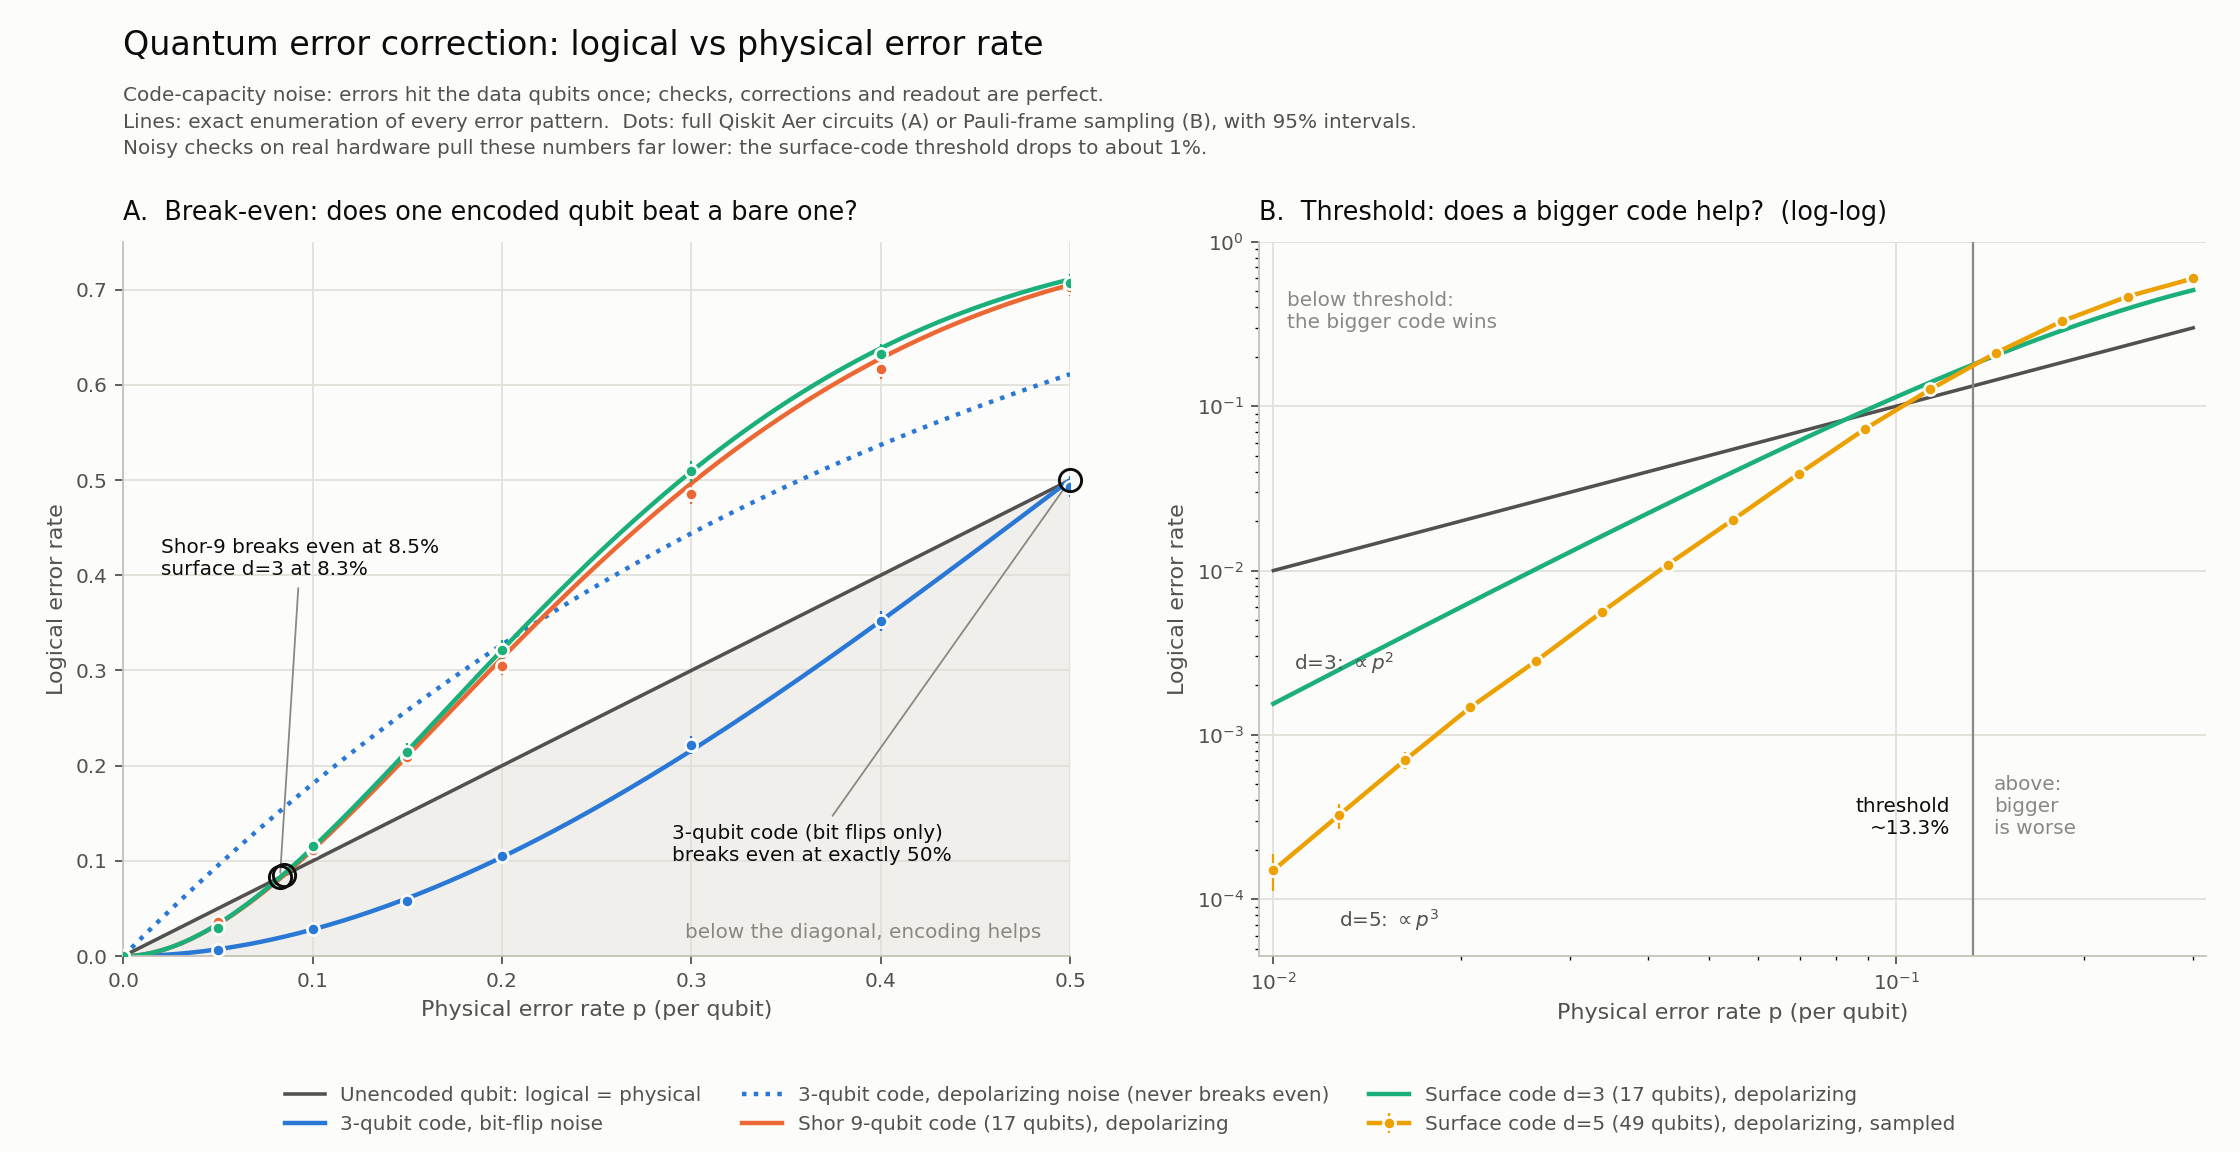
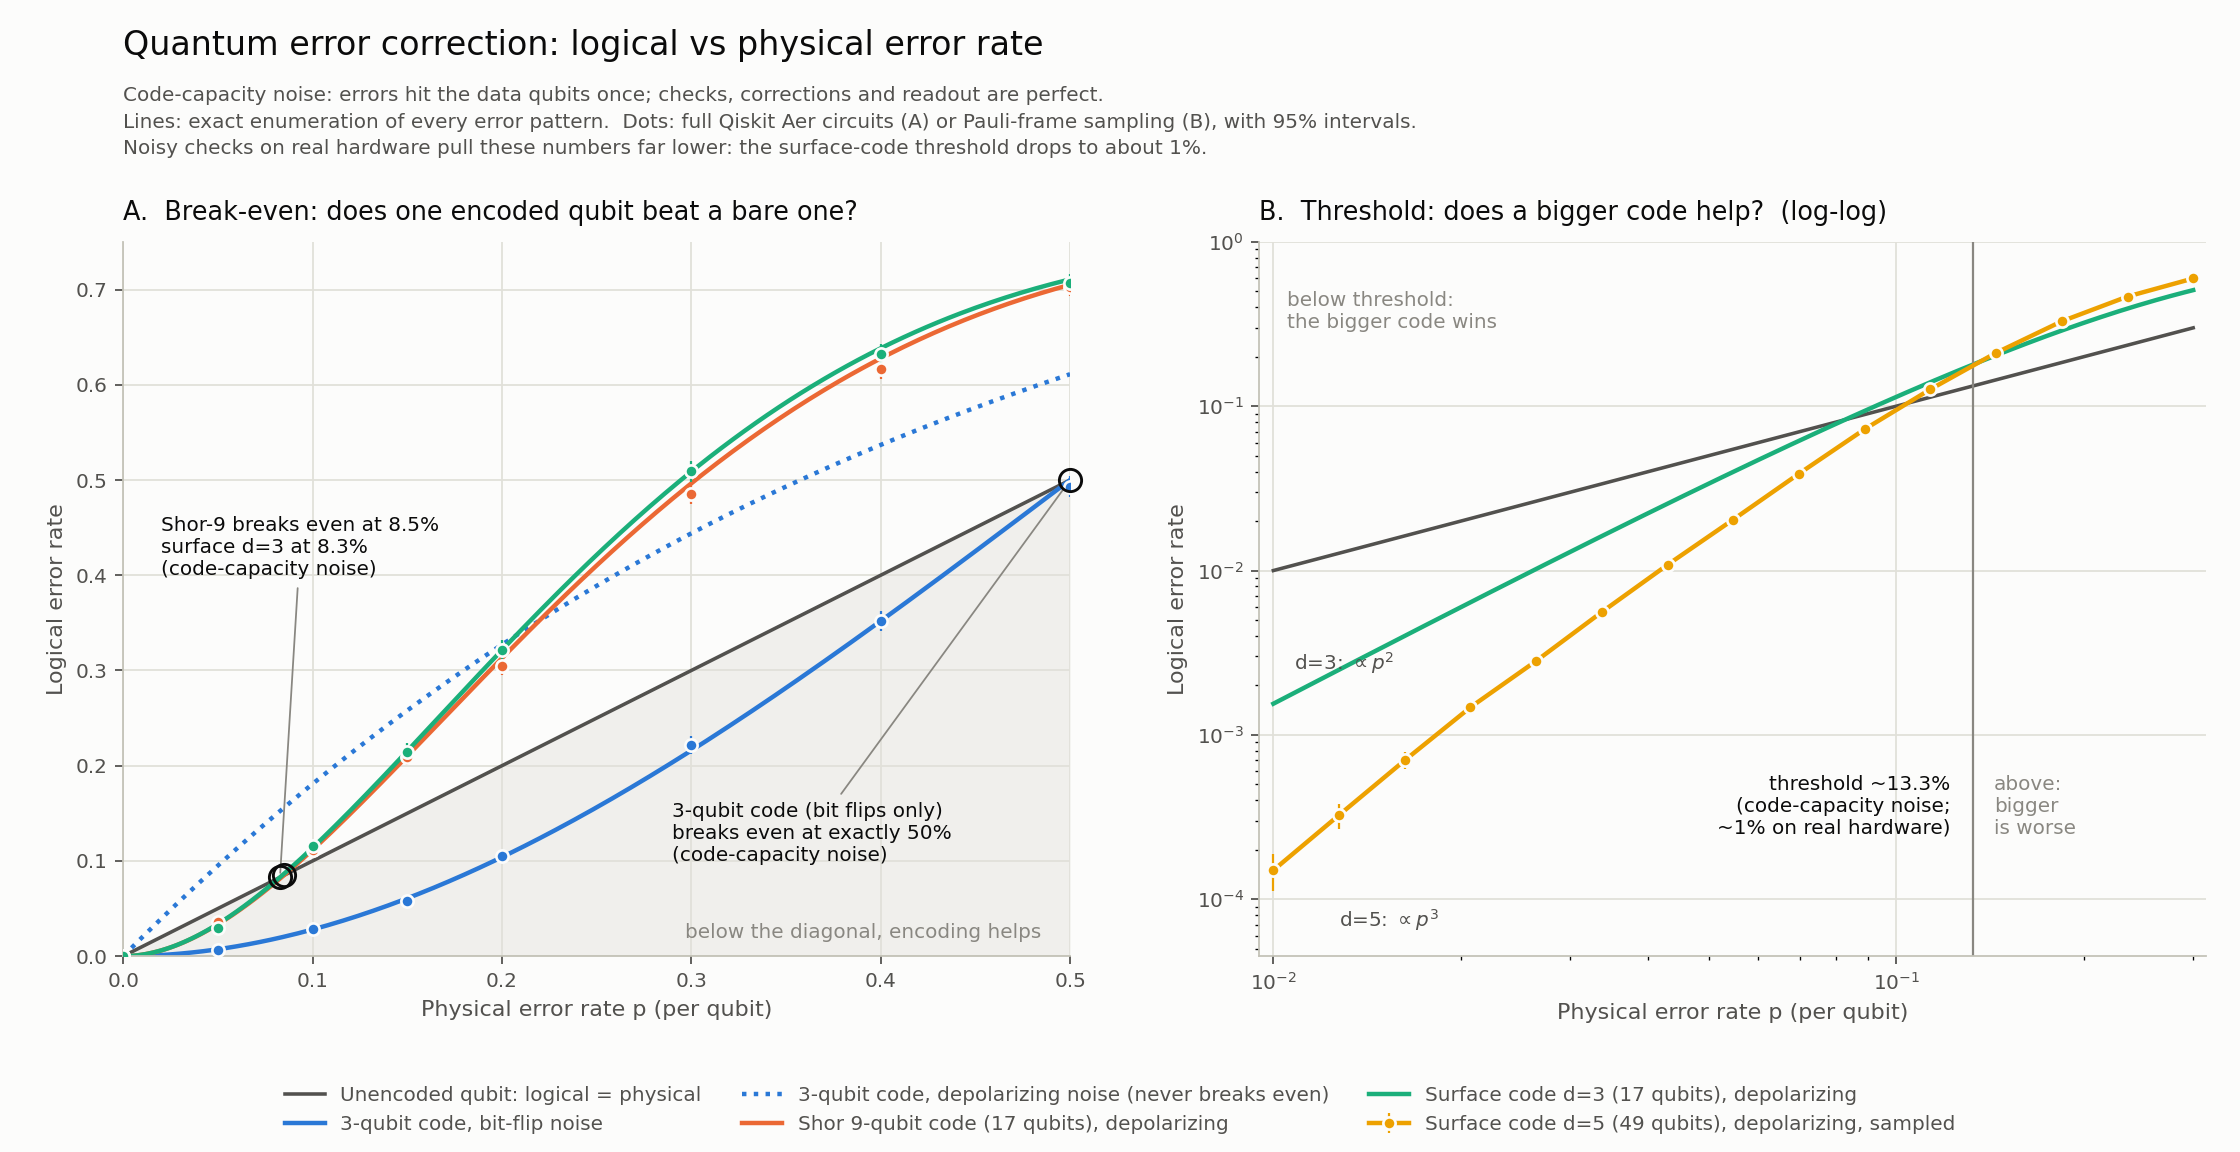
docs: state the noise model next to every threshold number
Threshold and break-even figures in the modules, printed output and chart now say which noise model they come from: code-capacity noise with perfect syndrome checks (about 13.3% surface-code threshold, 50% 3-qubit break-even) versus circuit-level noise on real hardware (about 1% surface-code threshold). 58/58 self-checks still pass; only wording and chart labels changed.

Changed region(s): [[0.2812, 0.6875, 0.4375, 0.75], [0.0625, 0.4375, 0.1875, 0.5], [0.7812, 0.6562, 0.875, 0.7188]]

diff --git a/02_algorithms/error_correction/threshold_sweep.py b/02_algorithms/error_correction/threshold_sweep.py
@@ -38,7 +38,8 @@ from pauli_frame import break_even_point
 #   getting hardware below that line and then as far below it as possible.
 #
 # WHY THESE THRESHOLDS ARE HIGHER THAN THE "~1%" YOU READ ABOUT
-#   This chart is code-capacity noise (perfect checks). Real syndrome extraction uses
+#   This chart is code-capacity noise (perfect checks), which is why its surface-code
+#   threshold lands near 13%. Real syndrome extraction uses
 #   noisy ancillas, CNOTs and measurements, and hardware repeats the checks every cycle
 #   to catch lying syndromes. Under that circuit-level noise the surface code threshold is
 #   about 1% (Wang, Fowler & Hollenberg 2011 report just over 1%; Fowler et al. 2012 report
@@ -60,7 +61,8 @@ from pauli_frame import break_even_point
 # THE OVERHEAD, WHICH IS THE REAL ENGINEERING PROBLEM
 #   A distance-d rotated surface code uses d^2 data + (d^2 - 1) measure qubits. Useful
 #   algorithms (chemistry, factoring) need logical error rates near 1e-12 per operation.
-#   With the usual rule of thumb P_L ~ 0.1 * (p / 1%)^((d+1)/2), hardware at p = 0.1%
+#   With the usual rule of thumb P_L ~ 0.1 * (p / 1%)^((d+1)/2), where 1% is the
+#   circuit-level threshold (not this script's 13% code-capacity figure), hardware at p = 0.1%
 #   needs d = 21, which is 881 physical qubits for EVERY logical qubit. Improving the
 #   physical error rate from 0.2% to 0.1% cuts that from 1,921 to 881: qubit quality
 #   matters as much as qubit count. It is also why IBM's roadmap moved to qLDPC "bivariate
@@ -142,11 +144,11 @@ def draw_break_even_panel(ax, curves: dict[str, Callable[[float], float]],
                 zorder=5, clip_on=False)
     if break_even["surface3"] is not None:
         ax.annotate(f"Shor-9 breaks even at {percent(break_even['shor'], 1)}\n"
-                    f"surface d=3 at {percent(break_even['surface3'], 1)}",
+                    f"surface d=3 at {percent(break_even['surface3'], 1)}\n(code-capacity noise)",
                     xy=(break_even["surface3"], break_even["surface3"]), xytext=(0.02, 0.40),
                     fontsize=9, color=INK,
                     arrowprops={"arrowstyle": "-", "color": INK_MUTED, "lw": 0.8})
-    ax.annotate("3-qubit code (bit flips only)\nbreaks even at exactly 50%",
+    ax.annotate("3-qubit code (bit flips only)\nbreaks even at exactly 50%\n(code-capacity noise)",
                 xy=(0.5, 0.5), xytext=(0.29, 0.10), fontsize=9, color=INK,
                 arrowprops={"arrowstyle": "-", "color": INK_MUTED, "lw": 0.8})
     ax.set_xlim(0, 0.5)
@@ -168,7 +170,8 @@ def draw_threshold_panel(ax, exact3: Callable[[float], float], d5_rates: Sequenc
     ax.text(ps[1], rates[0] * 0.45, r"d=5: $\propto p^3$", fontsize=9, color=INK_SECONDARY)
     if threshold is not None:
         ax.axvline(threshold, color=INK_MUTED, lw=1)
-        ax.text(threshold * 0.92, 2.5e-4, f"threshold\n~{threshold:.1%}", ha="right",
+        label = f"threshold ~{threshold:.1%}\n(code-capacity noise;\n~1% on real hardware)"
+        ax.text(threshold * 0.92, 2.5e-4, label, ha="right",
                 fontsize=9, color=INK)
         ax.text(0.0105, 0.3, "below threshold:\nthe bigger code wins", fontsize=9, color=INK_MUTED)
         ax.text(threshold * 1.08, 2.5e-4, "above:\nbigger\nis worse", fontsize=9, color=INK_MUTED)
@@ -248,8 +251,9 @@ def part6_threshold_chart(curves: dict[str, Callable[[float], float]], sweeps: d
         print(f"  {name:<36} {percent(break_even[key]):>8}")
     print(f"  {'Surface d=5, depolarizing (sampled)':<36} {percent(analysis.d5_break_even, 1):>8}")
     gain = f"{d3_on_grid[0] / d5_rates[0]:.0f}x" if d5_rates[0] > 0 else "immeasurably"
-    print("\nThreshold estimate, where the d=3 and d=5 curves cross: "
+    print("\nThreshold estimate under code-capacity noise, where the d=3 and d=5 curves cross: "
           f"{percent(analysis.threshold, 1, 'not found')}")
+    print("  Under circuit-level noise (noisy checks, as on real hardware) it is about 1%.")
     print(f"  At p = {P_SWEEP_LOG[0]:.0%}: d=3 fails {d3_on_grid[0]:.2e}, d=5 fails "
           f"{d5_rates[0]:.2e}: {gain} better for 32 more qubits.")
     print("  A two-size crossing is a finite-size estimate. For comparison, the asymptotic")

diff --git a/02_algorithms/error_correction/run_all.py b/02_algorithms/error_correction/run_all.py
@@ -44,7 +44,10 @@ THE FIVE IDEAS THIS SCRIPT IS REALLY ABOUT
        as Google's Willow did by 2.4x; "pseudo-threshold" is the precise term here.)
      * THRESHOLD: the p below which making the code BIGGER makes it BETTER. Below it,
        error suppression compounds with size; above it, bigger codes are worse.
-   Part 6 plots both.
+   Part 6 plots both. Every number carries its noise model: this script measures a
+   surface-code threshold of about 13% under code-capacity noise (perfect checks), while
+   real hardware, under circuit-level noise, faces about 1%. The 3-qubit code's 50%
+   break-even is a code-capacity number too.
 
 5. OVERHEAD. Protection is bought with qubits. A surface code of distance d spends
    2d^2 - 1 physical qubits per logical qubit (17 at d=3, 97 at d=7, about 1,000 at the
@@ -59,8 +62,9 @@ the textbook model for comparing codes, because it isolates what the CODE can do
 
 Real hardware is harsher: the ancilla qubits, the CNOTs and the measurements that do the
 checking fail too. Under that CIRCUIT-LEVEL noise, the surface code threshold falls from
-about 10-15% (code capacity) to roughly 1%. The numbers printed here are therefore upper
-bounds on what these codes achieve in practice, and the script says so where it prints them.
+about 13% (code capacity, as measured here) to roughly 1%. The numbers printed here are
+therefore upper bounds on what these codes achieve in practice, and the script says so
+where it prints them.
 
 WHAT IS HAND-BUILT, WHAT IS SIMPLIFIED, AND WHAT WAS SUBSTITUTED
 ----------------------------------------------------------------

diff --git a/02_algorithms/error_correction/repetition_code.py b/02_algorithms/error_correction/repetition_code.py
@@ -256,10 +256,12 @@ def part2_bit_flip_code() -> tuple[Sweep, Callable[[float], float], list[Check]]
     p_star = break_even_point(enumerated)
     checks.append(Check("Part 2: break-even of 3-qubit code is exactly p = 0.5",
                         p_star is not None and abs(p_star - 0.5) < 1e-9, f"p* = {p_star}"))
-    print(f"\n  KEY RESULT: break-even at p* = {percent(p_star, 1)}. Solving 3p^2 - 2p^3 = p gives")
+    print(f"\n  KEY RESULT: break-even at p* = {percent(p_star, 1)} under code-capacity")
+    print("  noise, where the parity checks never fail. Solving 3p^2 - 2p^3 = p gives")
     print("  p = 0, 1/2 or 1, so the encoded qubit beats the bare one at EVERY p below 50%")
     print("  and loses above it (at p = 0.6 the code fails 64.8% of the time vs 60.0% bare).")
     print("  Why so generous? This model gives the code PERFECT parity checks. On hardware the")
     print("  ancillas, CNOTs and measurements fail too, and a lying syndrome turns the 'fix'")
-    print("  into an error. That is what drags real thresholds down toward 1% (see Part 6).")
+    print("  into an error. Under that circuit-level noise the surface code's threshold is about")
+    print("  1%, versus about 13% in this script's code-capacity model (see Part 6).")
     return sweep, enumerated, checks

diff --git a/02_algorithms/error_correction/surface_code.py b/02_algorithms/error_correction/surface_code.py
@@ -32,7 +32,8 @@ from pauli_frame import (CssCode, LookupDecoder, break_even_point, build_decoder
 #   made it the default roadmap:
 #     1. LOCAL CONNECTIVITY. Nearest-neighbour couplings only; it fits a planar chip.
 #     2. HIGH THRESHOLD. About 1% under realistic circuit-level noise, the most forgiving
-#        of the practical codes, and today's best hardware is already below it.
+#        of the practical codes, and today's best hardware is already below it. (Part 6
+#        measures about 13%, but only because this script's checks never fail.)
 #     3. SCALABILITY. Distance d is just the grid size. Growing d changes nothing about
 #        any individual check, so the same hardware cell tiles out to any size.
 #   Google's Willow chip (Nature, December 2024; arXiv:2408.13687) ran distance 3, 5 and 7 surface

diff --git a/02_algorithms/error_correction/shor_code.py b/02_algorithms/error_correction/shor_code.py
@@ -224,7 +224,8 @@ def part4_shor_code() -> tuple[Sweep, Callable[[float], float], list[Check]]:
     print("    exact = all 4^9 = 262,144 error patterns enumerated and decoded.\n")
     print_error_rate_sweep([("Shor-9", sweep, exact)])
     p_star = break_even_point(exact)
-    print(f"\n  KEY RESULT: break-even at p* = {percent(p_star)} under depolarizing noise.")
+    print(f"\n  KEY RESULT: break-even at p* = {percent(p_star)} under code-capacity depolarizing")
+    print("  noise (perfect syndrome checks; noisy checks on real hardware would lower it).")
     print("  Below it, 9 physical qubits make a better qubit than 1. The first code ever to do")
     print("  that against every kind of single-qubit error, not just one kind.")
     return sweep, exact, checks
